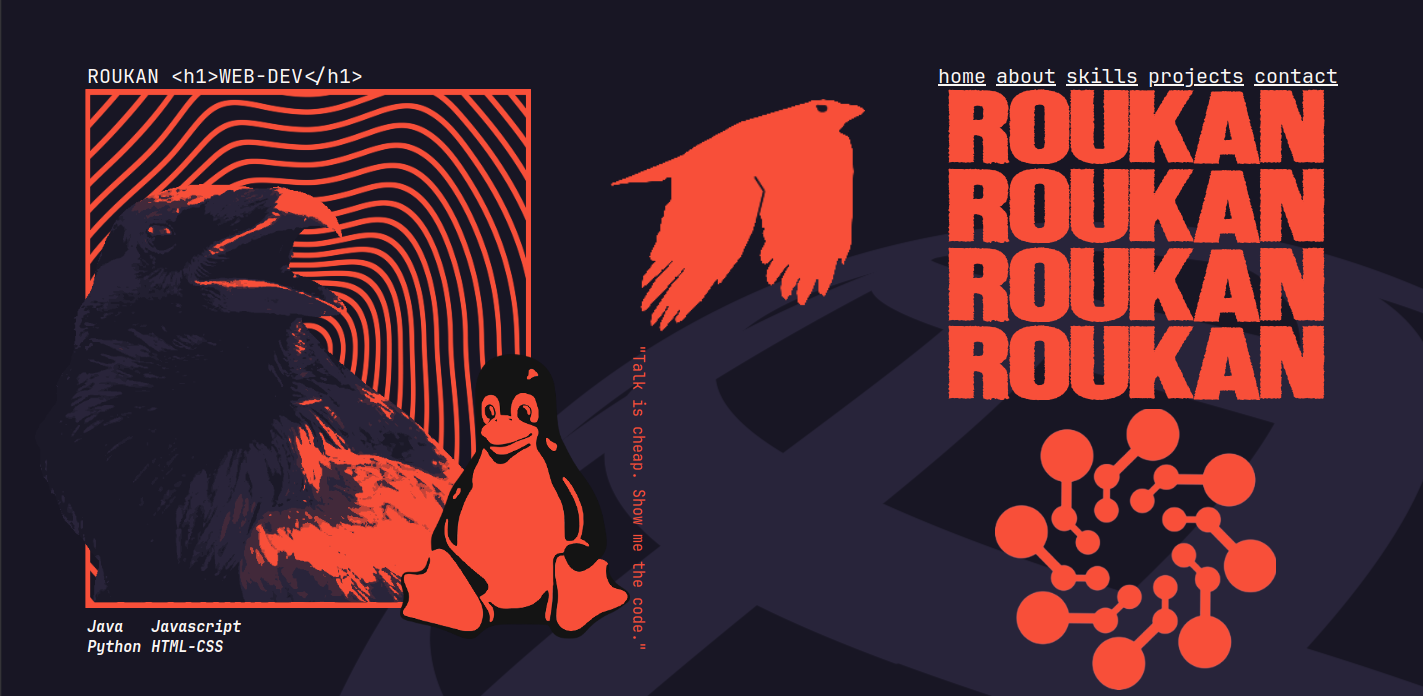
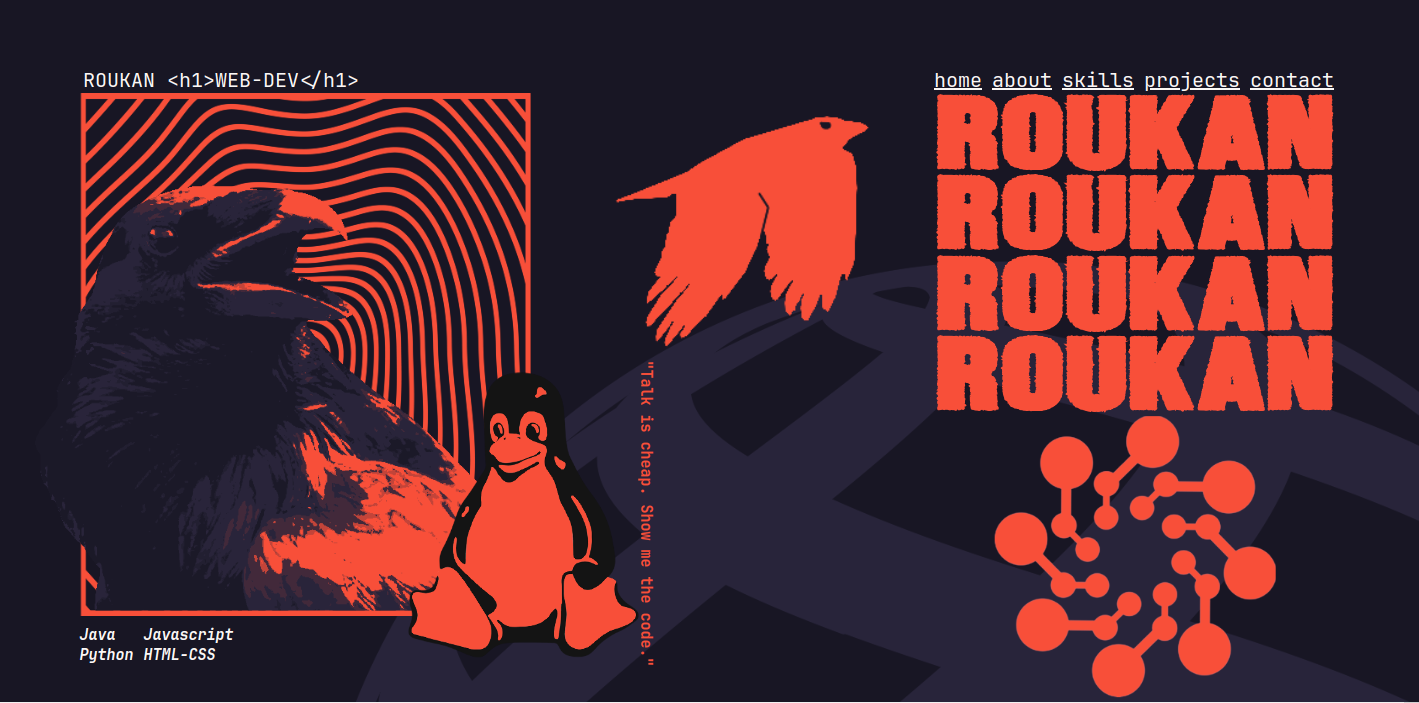
Finalizacao Pagina Inicial

diff --git a/css/style.css b/css/style.css
@@ -15,6 +15,7 @@ body {
   background-color: #181624;
   font-family: "JetBrains Mono", monospace;
   color: var(--white);
+  overflow-x: hidden;
 }
 
 /* ============================================= */
@@ -29,7 +30,7 @@ body {
 .cabecalho {
   display: flex;
   justify-content: space-between;
-  align-items: center;
+  position: relative;
   padding: 60px 77px 0;
   width: 100%;
   box-sizing: border-box;
@@ -37,12 +38,14 @@ body {
 
 /* Nome no cabeçalho (ROUKAN menor no topo) */
 .nome {
+  font-size: 20px;
   color: var(--white);
   font-family: "JetBrains Mono";
 }
 
 /* Menu de navegação (home about skills projects contact) */
 .opcoes {
+  font-size: 20px;
   display: flex;
   gap: 10px; /* Substitui as margens individuais por gap */
 }
@@ -57,6 +60,27 @@ body {
   color: var(--focus);
 }
 
+.ROUKAN {
+  display: flex;
+  flex-direction: column;
+  position: absolute;
+  color: var(--focus);
+  font-family: "Krux Grunge";
+  font-weight: bolder;
+  font-size: 115px;
+  transform: scaleY(0.67) translate(232%, 5%);
+  letter-spacing: -8px;
+  z-index: 1;
+}
+
+/* CONFIGURAÇÕES DO ROUKAN */
+.ROUKAN span {
+  margin-bottom: 7%;
+  text-align: center;
+  line-height: 0.8;
+}
+
+
 /* ============================================= */
 /* CONTEÚDO PRINCIPAL                            */
 /* ============================================= */
@@ -68,47 +92,18 @@ body {
   position: relative;
 }
 
-/* Container com os textos à direita */
-.container-texto {
-  display: flex;
-  flex-direction: column;
-  align-items: flex-end;
-  width: 10%;
-  position: relative;
-}
-
-/* Nome do programador (ROUKAN grande) */
-.ROUKAN {
-  display: flex;
-  flex-direction: column;
-  position: absolute;
-  right: 7.5%;
-  top: 4px;
-  color: var(--focus);
-  font-family: "Krux Grunge";
-  font-weight: bold;
-  transform: scaleY(0.65);
-  letter-spacing: -15px;
-  z-index: 10;
-}
-
-.ROUKAN span {
-  margin-bottom: -10px;
-  text-align: right;
-  line-height: 0.8;
-}
 
 /* Container das linguagens de programação */
 .container-linguagens {
   position: absolute;
   display: flex;
-  gap: 20px;
+  gap: 10px;
   color: var(--white);
   font-size: 15px;
   font-weight: bold;
   font-style: italic;
   z-index: 10;
-  transform: translate(45%, 1270%);
+  transform: translate(48%, 1330%);
 }
 
 .backend,
@@ -160,7 +155,7 @@ body {
 .frase {
   position: absolute;
   display: block;
-  transform: rotate(90deg) translate(35%, -420%);
+  transform: rotate(90deg) translate(38%, -420%);
   color: var(--focus);
   font-size: 15px;
   font-weight: bold;
@@ -182,41 +177,42 @@ body {
   width: 100%;
   height: 100%;
   transform: translate(-16.4%, 0);
+  z-index: 5;
 }
 
 .corvo {
   position: absolute;
   display: block;
-  width: 40%;
+  width: 42%;
   height: auto;
-  transform: translate(5%, 22.75%);
+  transform: translate(5%, 21.75%);
   z-index: 5;
 }
 
 .quadrado {
   position: absolute;
   display: block;
-  width: 30.78%;
+  width: 32%;
   height: auto;
   transform: translate(75px, 0px);
   z-index: 1;
 }
 
 .logo {
-  width: 20%;
-  transform: translate(600px, 10px);
+  width: 18%;
+  transform: translate(150%, 10%);
   z-index: 3;
 }
 
 .star {
-  width: 22%;
-  transform: translate(985px, 320px);
+  width: 20%;
+  transform: translate(270%, 115%);
   z-index: 7;
 }
 
 .globo {
-  transform: translate(15%, 8%);
-  z-index: 1;
+  transform: translate(5%, 12%);
+  z-index: 0;
 }
 
 /* ============================================= */

diff --git a/index.html b/index.html
@@ -17,8 +17,6 @@
 				<span>home</span><span>about</span><span>skills</span><span>projects</span><span>contact</span>
 			</div>
 		</div>
-	</div>
-	<div class="container-texto">
 		<div class="ROUKAN">
 			<span>ROUKAN</span>
 			<span>ROUKAN</span>
